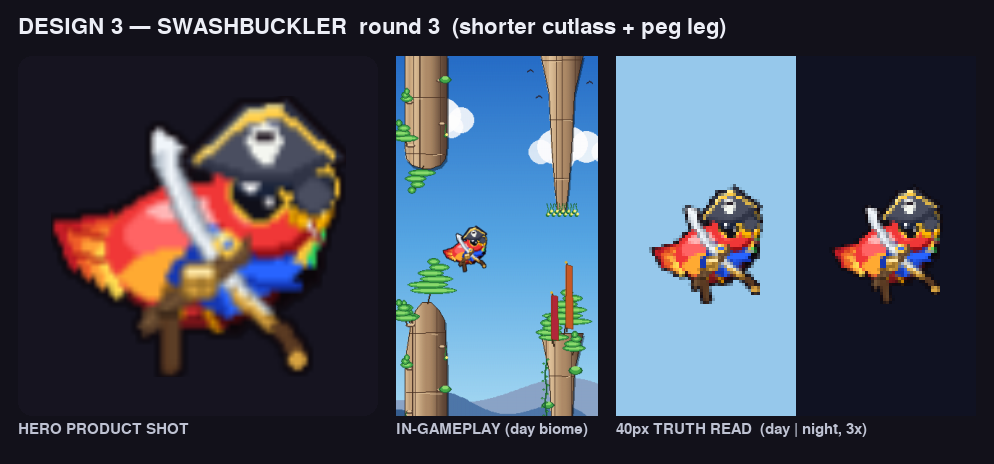
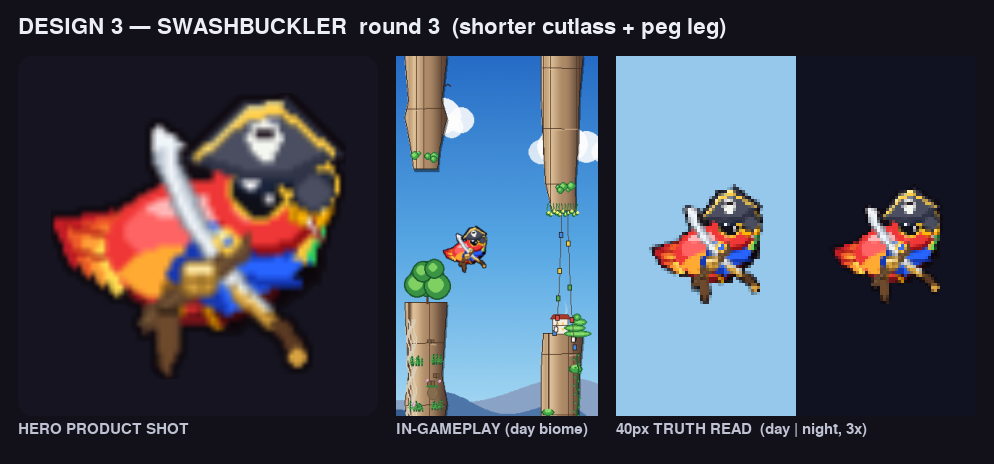
Lift peg-leg contrast on SWASHBUCKLER pirate candidate (design 3)
Lighten the peg body one value step (#5A3A22 -> #6E4A2C) and widen it to
5px over the upper two-thirds, keeping the 1px leather shadow/glint sides,
so the stump separates cleanly from the dark belt/grip browns above it at
40px. Drop a centred 1px-lower whittled tip so the bottom reads as a
tapered carved point, not a flat-cut dowel.

Claude-Session: https://claude.ai/code/session_01HafGQfRZVDiGkQqpJPr5Cm

diff --git a/tools/pirate_candidates/design_3.py b/tools/pirate_candidates/design_3.py
@@ -34,6 +34,8 @@ _BRASS    = (217, 164, 65)         # #D9A441 guard / buckle
 _BRASS_D  = (150, 110, 40)
 _BRASS_H  = (255, 233, 168)        # #FFE9A8 buckle highlight
 _WOOD     = (90, 58, 34)           # #5A3A22 grip wood
+_PEG      = (110, 74, 44)          # #6E4A2C peg body — one value step up so the
+                                   # stump separates from the dark _LEATHER browns above it
 _LEATHER  = (62, 42, 26)           # #3E2A1A belt leather
 _LEATHER_H = (96, 68, 44)          # raised baldric body — reads on dark-blue lower body
 _LEATHER_HH = (132, 100, 66)       # baldric top-edge glint so the strap reads as a line
@@ -124,11 +126,15 @@ def _paint(surf, _a):
     # ── CLASSIC WOODEN PEG LEG over the NEAR foot. The base foot is only ~2px so
     #    the peg is drawn chunkier (3-4px) to survive downscale, and pokes below the
     #    body to break the lower silhouette. Far foot is left as a normal foot.
-    px, ptop, pbot = 26, 65, 78
-    pygame.draw.line(surf, _LEATHER, (px - 1, ptop), (px - 1, pbot), 1)   # shadow side
-    pygame.draw.line(surf, _WOOD, (px, ptop), (px, pbot - 1), 4)          # peg body
-    pygame.draw.line(surf, _WOOD, (px, pbot - 1), (px, pbot), 2)          # whittled tip
-    pygame.draw.line(surf, _LEATHER_H, (px + 1, ptop + 1), (px + 1, pbot - 2), 1)  # glint
+    px, ptop, pbot = 26, 65, 79
+    pwide = ptop + int((pbot - ptop) * 2 / 3)   # upper two-thirds is the chunky 5px body
+    pygame.draw.line(surf, _LEATHER, (px - 2, ptop), (px - 2, pbot - 2), 1)   # shadow side
+    pygame.draw.line(surf, _PEG, (px, ptop), (px, pwide), 5)             # chunky lighter body
+    pygame.draw.line(surf, _PEG, (px, pwide), (px, pbot - 3), 3)         # taper down to the tip
+    # Whittled carved point — dropped 1px and centred so the bottom reads as a
+    # tapered stump, not a flat-cut dowel.
+    _poly(surf, _PEG, [(px - 1, pbot - 3), (px + 1, pbot - 3), (px, pbot)])
+    pygame.draw.line(surf, _LEATHER_H, (px + 2, ptop + 1), (px + 2, pwide), 1)  # glint
     pygame.draw.line(surf, _LEATHER, (px - 2, ptop), (px + 2, ptop), 2)   # ferrule at body
 
     # ── PIRATE IDENTITY (the anchor read) — earring, eyepatch, tricorn, gold
